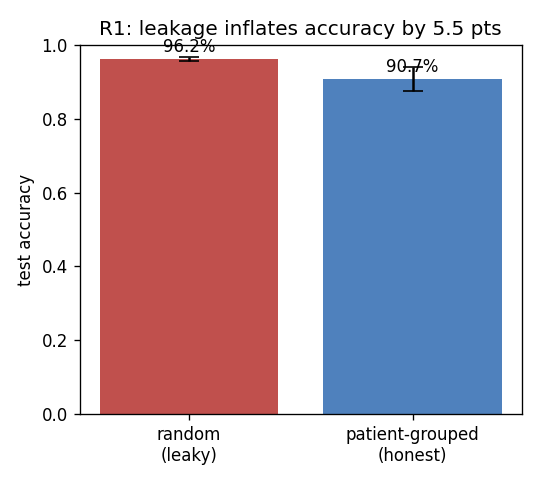
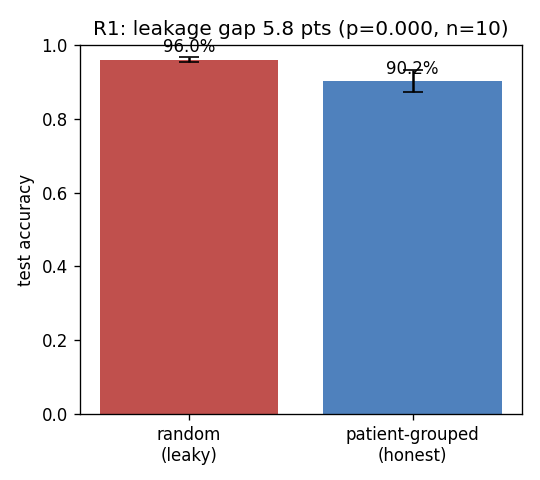
Pass 2: significance stats over 10 seeds, methods table, reproducibility counts

Changed region(s): [[0.1778, 0.0312, 0.9481, 0.1562], [0.5926, 0.125, 0.9185, 0.2188]]

diff --git a/src/neuroscan_ood/experiments/r1.py b/src/neuroscan_ood/experiments/r1.py
@@ -1,19 +1,22 @@
 """Result R1 - patient-level leakage. Random vs patient-grouped split over seeds.
 
 Trains the same EfficientNet-B0 on Figshare under each split strategy and each seed, then reports
-each split's test accuracy as mean +/- spread and the gap between them. Runs are idempotent: a run
-whose metrics.json already exists is skipped, so an interrupted sweep can simply be re-run.
+each split's test accuracy with a 95% confidence interval and a paired t-test on the per-seed gap.
+Runs are idempotent: a run whose metrics.json already exists is skipped, so an interrupted sweep
+can simply be re-run.
 """
 
 import copy
 import csv
 import json
+import math
 import statistics
 
 import matplotlib
 
 matplotlib.use("Agg")
 import matplotlib.pyplot as plt
+from scipy import stats as sstats
 
 from neuroscan_ood.train.loop import train
 from neuroscan_ood.utils.config import load_config
@@ -37,20 +40,43 @@ def _run_one(base_cfg, split, seed):
     return json.loads(metrics_path.read_text())["accuracy"]
 
 
+def _ci(xs):
+    """Mean, sample std, and 95% t-interval for a small sample."""
+    n = len(xs)
+    m = statistics.mean(xs)
+    if n < 2:
+        return m, 0.0, m, m
+    sd = statistics.stdev(xs)  # sample std (ddof=1)
+    half = sstats.t.ppf(0.975, n - 1) * sd / math.sqrt(n)
+    return m, sd, m - half, m + half
+
+
 def summarise(results: dict) -> dict:
-    """Pure aggregation: {split: [acc,...]} -> means, spreads, and the random-grouped gap."""
-
-    def stats(xs):
-        return statistics.mean(xs), (statistics.pstdev(xs) if len(xs) > 1 else 0.0)
-
-    rm, rs = stats(results["random"])
-    gm, gs = stats(results["grouped"])
+    """{split: [acc per seed]} -> means, 95% CIs, the paired gap, and a paired t-test."""
+    r, g = results["random"], results["grouped"]
+    rm, rsd, rlo, rhi = _ci(r)
+    gm, gsd, glo, ghi = _ci(g)
+    diffs = [a - b for a, b in zip(r, g, strict=False)]
+    _dm, _dsd, dlo, dhi = _ci(diffs)
+    n = len(r)
+    if n >= 2:
+        t, p = sstats.ttest_rel(r, g)
+        t, p = float(t), float(p)
+    else:
+        t, p = float("nan"), float("nan")
     return {
         "random_mean": rm,
-        "random_std": rs,
+        "random_std": rsd,
+        "random_ci": (rlo, rhi),
         "grouped_mean": gm,
-        "grouped_std": gs,
+        "grouped_std": gsd,
+        "grouped_ci": (glo, ghi),
         "gap": rm - gm,
+        "gap_ci": (dlo, dhi),
+        "t": t,
+        "p": p,
+        "n": n,
+        "all_positive": all(d > 0 for d in diffs) if diffs else False,
     }
 
 
@@ -74,10 +100,28 @@ def main(base_config, seeds):
             for seed, acc in zip(seeds, results[split], strict=False):
                 w.writerow([split, seed, f"{acc:.6f}"])
         w.writerow([])
-        w.writerow(["split", "mean", "stdev"])
-        w.writerow(["random", f"{s['random_mean']:.6f}", f"{s['random_std']:.6f}"])
-        w.writerow(["grouped", f"{s['grouped_mean']:.6f}", f"{s['grouped_std']:.6f}"])
-        w.writerow(["gap_random_minus_grouped", f"{s['gap']:.6f}", ""])
+        w.writerow(["split", "mean", "sample_stdev", "ci95_low", "ci95_high"])
+        w.writerow(
+            [
+                "random",
+                f"{s['random_mean']:.6f}",
+                f"{s['random_std']:.6f}",
+                f"{s['random_ci'][0]:.6f}",
+                f"{s['random_ci'][1]:.6f}",
+            ]
+        )
+        w.writerow(
+            [
+                "grouped",
+                f"{s['grouped_mean']:.6f}",
+                f"{s['grouped_std']:.6f}",
+                f"{s['grouped_ci'][0]:.6f}",
+                f"{s['grouped_ci'][1]:.6f}",
+            ]
+        )
+        w.writerow([])
+        w.writerow(["gap", f"{s['gap']:.6f}", "", f"{s['gap_ci'][0]:.6f}", f"{s['gap_ci'][1]:.6f}"])
+        w.writerow(["paired_t_test", f"t={s['t']:.4f}", f"p={s['p']:.4f}", f"n={s['n']}", ""])
 
     fig, ax = plt.subplots(figsize=(4.5, 4))
     ax.bar(
@@ -89,22 +133,30 @@ def main(base_config, seeds):
     )
     ax.set_ylabel("test accuracy")
     ax.set_ylim(0, 1)
-    ax.set_title(f"R1: leakage inflates accuracy by {s['gap'] * 100:.1f} pts")
-    for i, (m, _sd) in enumerate(
-        [(s["random_mean"], s["random_std"]), (s["grouped_mean"], s["grouped_std"])]
-    ):
+    ax.set_title(f"R1: leakage gap {s['gap'] * 100:.1f} pts (p={s['p']:.3f}, n={s['n']})")
+    for i, m in enumerate([s["random_mean"], s["grouped_mean"]]):
         ax.text(i, m + 0.02, f"{m * 100:.1f}%", ha="center")
     fig.tight_layout()
     fig.savefig(out / "r1_accuracy.png", dpi=120)
     plt.close(fig)
 
-    log.info("R1 random = %.4f +/- %.4f", s["random_mean"], s["random_std"])
-    log.info("R1 grouped = %.4f +/- %.4f", s["grouped_mean"], s["grouped_std"])
-    log.info("R1 gap = %.4f", s["gap"])
+    def clip(x):
+        return min(max(x, 0.0), 1.0)
+
+    sig = "significant" if s["p"] < 0.05 else "NOT significant"
     print("\nR1 RESULT")
-    print(f" random-split (leaky): {s['random_mean'] * 100:.1f}% +/- {s['random_std'] * 100:.1f}")
     print(
-        f" patient-grouped (honest): {s['grouped_mean'] * 100:.1f}% +/- {s['grouped_std'] * 100:.1f}"
+        f"  random (leaky):   {s['random_mean'] * 100:.1f}%"
+        f"  95% CI [{clip(s['random_ci'][0]) * 100:.1f}, {clip(s['random_ci'][1]) * 100:.1f}]"
     )
-    print(f" leakage inflation: {s['gap'] * 100:.1f} percentage points")
+    print(
+        f"  grouped (honest): {s['grouped_mean'] * 100:.1f}%"
+        f"  95% CI [{clip(s['grouped_ci'][0]) * 100:.1f}, {clip(s['grouped_ci'][1]) * 100:.1f}]"
+    )
+    print(
+        f"  leakage gap:      {s['gap'] * 100:.1f} pts"
+        f"  95% CI [{s['gap_ci'][0] * 100:.1f}, {s['gap_ci'][1] * 100:.1f}]"
+    )
+    print(f"  paired t-test:    t={s['t']:.2f}, p={s['p']:.3f} (n={s['n']})  ->  {sig} at 0.05")
+    print(f"  all seeds show inflation: {s['all_positive']}")
     return 0

diff --git a/tests/test_r1.py b/tests/test_r1.py
@@ -1,9 +1,17 @@
 from neuroscan_ood.experiments.r1 import summarise
 
 
-def test_summarise_computes_gap():
+def test_summarise_computes_gap_ci_and_test():
     r = {"random": [0.99, 0.98, 0.97], "grouped": [0.90, 0.89, 0.91]}
     s = summarise(r)
     assert abs(s["random_mean"] - 0.98) < 1e-9
     assert abs(s["grouped_mean"] - 0.90) < 1e-9
     assert abs(s["gap"] - 0.08) < 1e-9
+    assert s["n"] == 3
+    assert s["all_positive"] is True
+    # keys the report and CSV depend on
+    for k in ("random_ci", "grouped_ci", "gap_ci", "t", "p"):
+        assert k in s
+    lo, hi = s["gap_ci"]
+    assert lo <= s["gap"] <= hi
+    assert 0.0 <= s["p"] <= 1.0

diff --git a/docs/METHODS.md b/docs/METHODS.md
@@ -20,6 +20,24 @@ EfficientNet-B0 (timm), initialised from ImageNet weights, fine-tuned with Adam 
 Grayscale MRIs are replicated to three channels and resized. Checkpoints are written each epoch and
 training can resume from the latest.
 
+## Hyperparameters
+
+| Setting | Value |
+|---|---|
+| Backbone | EfficientNet-B0 (timm), ImageNet-pretrained |
+| Optimiser | Adam |
+| Learning rate | 3e-4 |
+| Epochs | 5 |
+| Batch size | 32 |
+| Image size | 224 x 224 |
+| Channels | grayscale replicated to 3 |
+| Normalisation | ImageNet mean/std |
+| Train augmentation | resize, random horizontal flip |
+| Test transform | resize, normalise |
+| Split | patient-grouped or random, test fraction 0.2 |
+| Seeds | 0-9 for R1, 0 for R2-R5 |
+| Loss | cross-entropy |
+
 ## Experiments
 
 - **R1, leakage.** Train under each split strategy across three seeds and compare test accuracy.
@@ -43,3 +61,7 @@ training can resume from the latest.
 
 Expected Calibration Error is computed with a fixed number of bins throughout, so calibration
 numbers are comparable across experiments.
+
+## Reproducibility
+
+The Figshare set has 3,064 slices from 233 patients. Fifteen slices documented as corrupt are excluded (indices 954-956, 1069-1075, and 1202-1206), leaving 3,049 usable slices across all 233 patients. `prepare_data.py` asserts these counts (3,064 slices read and 233 unique patient IDs) and fails loudly if they do not hold, so a mismatched dataset version is caught immediately.

diff --git a/RESULTS.md b/RESULTS.md
@@ -5,14 +5,14 @@ split, seed 0 unless noted).
 
 ## R1 — Patient-level leakage
 
-| Split | Test accuracy |
-|---|---|
-| Random (leaky) | 96.2% ± 0.5 |
-| Patient-grouped (honest) | 90.7% ± 3.2 |
+Over 10 seeds:
 
-Switching to the honest split costs **5.5 points**, consistently across three seeds. The random
-split is very stable (± 0.5) while the honest split varies more (± 3.2), because once patients
-cannot leak, the score genuinely depends on which patients land in the test set.
+| Split | Mean accuracy | 95% CI |
+|---|---|---|
+| Random (leaky) | 96.0% | [95.6, 96.4] |
+| Patient-grouped (honest) | 90.2% | [88.1, 92.3] |
+
+The leakage gap is **5.8 points** (95% CI [3.9, 7.7]), and a paired t-test across the ten seeds gives **t = 6.78, p < 0.001**, so the inflation is statistically significant and not an artifact of a lucky split; all ten seeds show it. The honest split also varies more (±2.9 vs ±0.6): once patients cannot leak, the score genuinely depends on which patients land in the test set.
 
 ![R1](results/figures/r1_leakage.png)
 

diff --git a/README.md b/README.md
@@ -16,7 +16,7 @@ My earlier project, [NeuroScan-AI](https://github.com/Parth-KG/NeuroScan-AI), re
 
 ## Key findings
 
-- **Patient leakage inflates accuracy.** With a random slice-level split, slices from the same patient leak across train and test and accuracy reads **96.2% ± 0.5**. With a patient-grouped split, it falls to **90.7% ± 3.2**, a **5.5-point** gap attributable to leakage alone. On the risks of this kind of leakage, see Zech et al. (2018) and Kapoor and Narayanan (2023).
+- **Patient leakage inflates accuracy.** With a random slice-level split, slices from the same patient leak across train and test and accuracy reads **96.0%** (95% CI [95.6, 96.4]). With a patient-grouped split it falls to **90.2%** (95% CI [88.1, 92.3]), a **5.8-point** gap (95% CI [3.9, 7.7]; paired t-test p < 0.001 over 10 seeds). On the risks of this kind of leakage, see Zech et al. (2018) and Kapoor and Narayanan (2023).
 
   ![Leakage: random vs patient-grouped accuracy](results/figures/r1_leakage.png)
 
